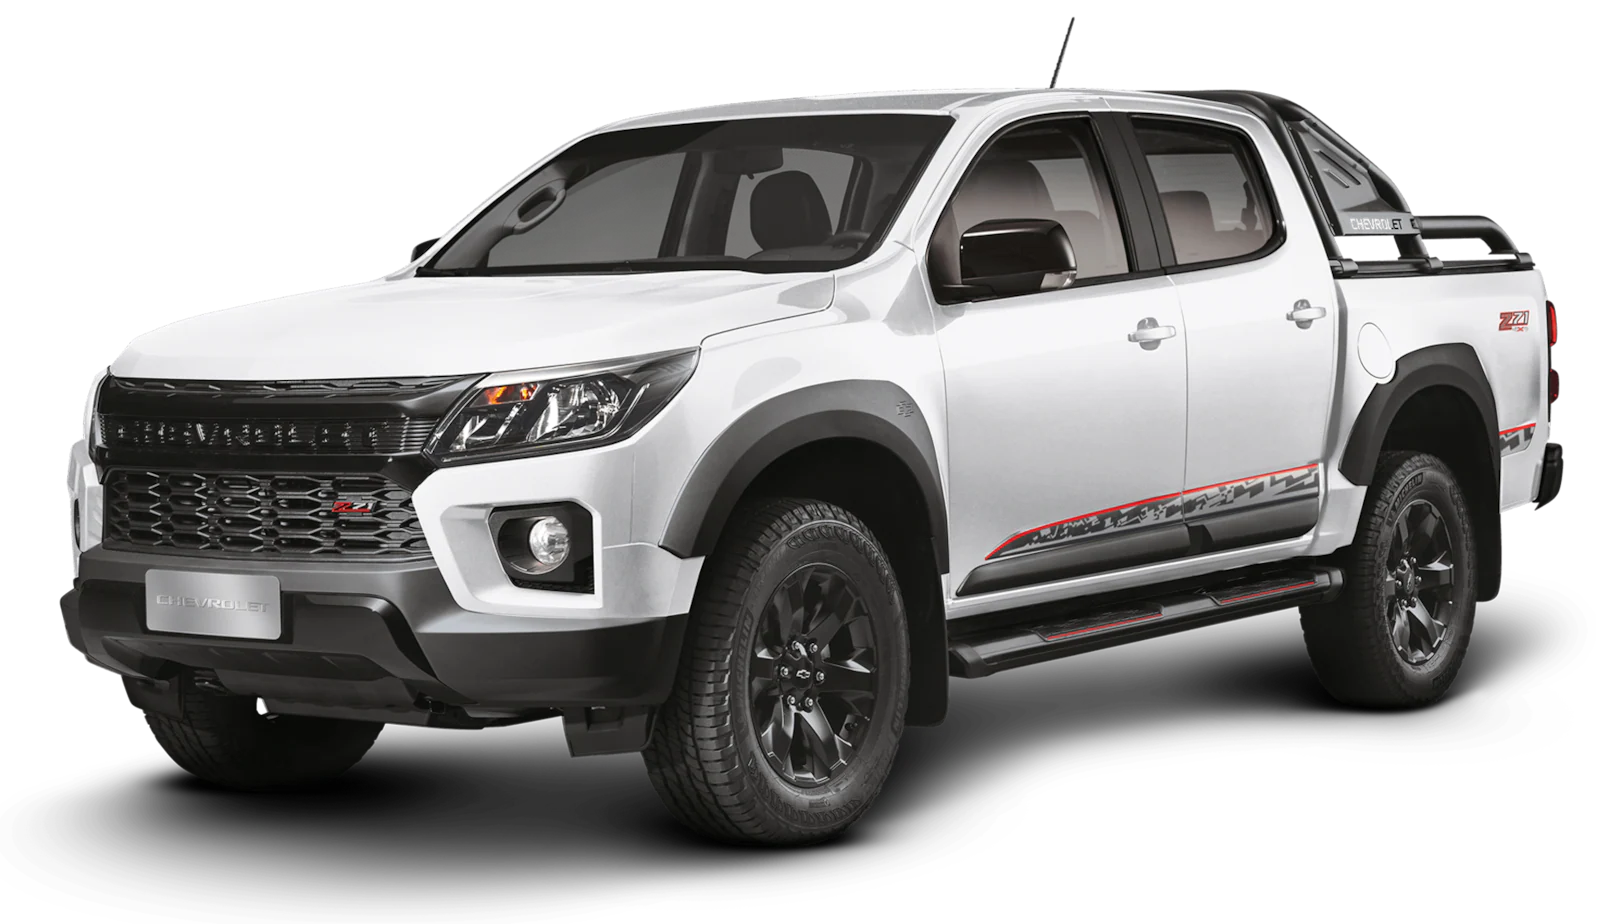
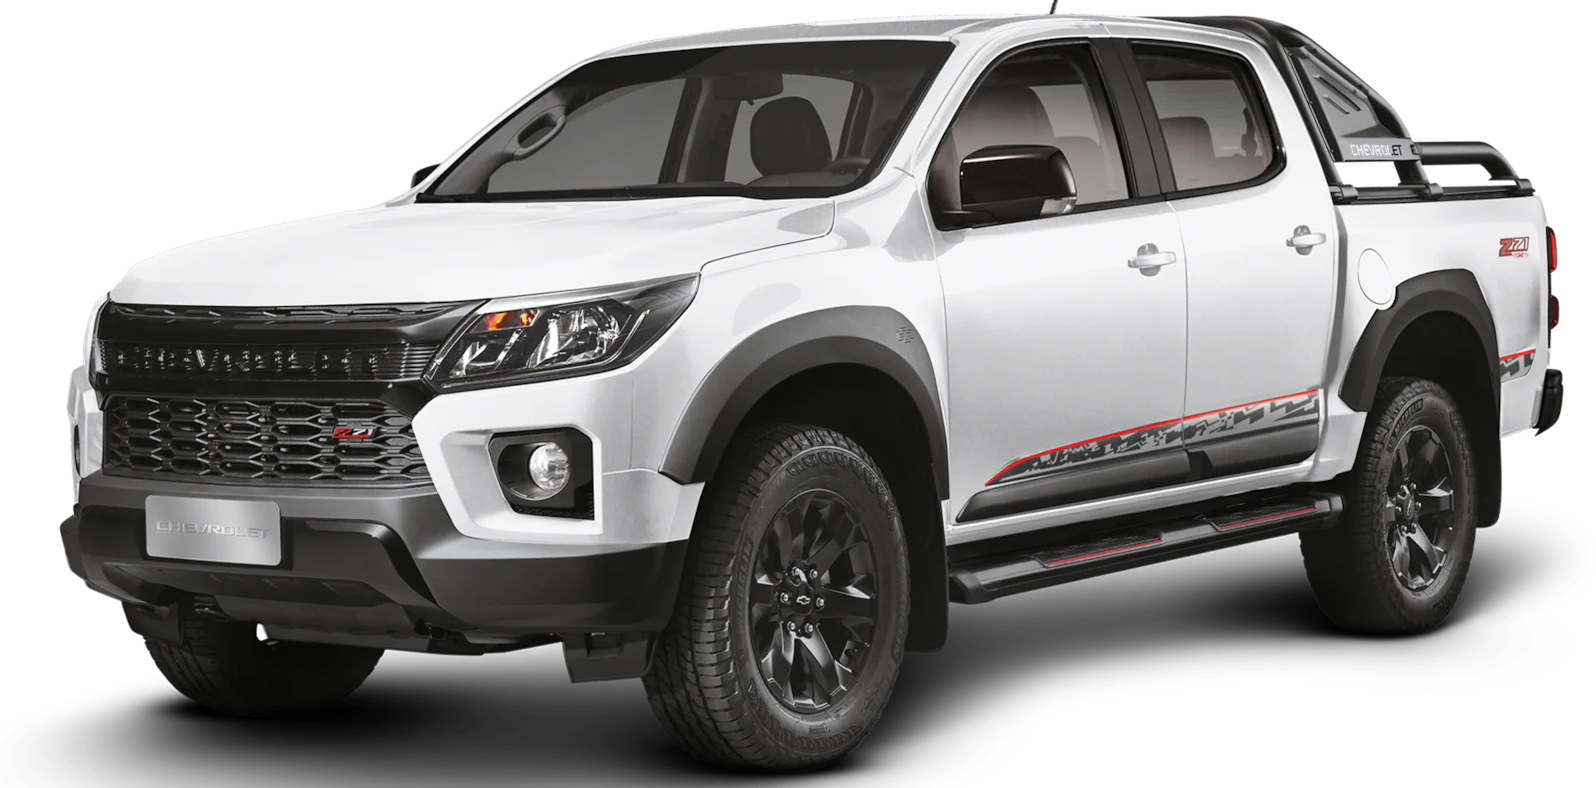
ATT

diff --git a/index.html b/index.html
@@ -122,7 +122,7 @@
                             <p>
                                 <img src="estilo/imagens/main/home-ilustration/casa-moderna.png" alt="casa-moderna" class="imoveis-imagem">
                             </p>
-                                <a href="#" class="botao-ver-parcela">Ver parcela</a>
+                                <a href="#" class="botao-ver-parcela-imoveis">Ver parcela</a>
                         </div>
                     </div>
                     <div class="col-12 col-sm-12 col-md-12 col-lg-3 col-xl-3" id="coluna-casa-media">
@@ -132,7 +132,7 @@
                             <p>
                                 <img src="estilo/imagens/main/home-ilustration/casa-media.png" alt="casa-media" class="imoveis-imagem">
                             </p>
-                                <a href="#" class="botao-ver-parcela">Ver parcela</a>
+                                <a href="#" class="botao-ver-parcela-imoveis">Ver parcela</a>
                         </div>
                     </div>
                     <div class="col-12 col-sm-12 col-md-12 col-lg-3 col-xl-3" id="coluna-casa-pequena">
@@ -142,64 +142,53 @@
                             <p>
                                 <img src="estilo/imagens/main/home-ilustration/casa-pequena.png" alt="casa-pequena" class="imoveis-imagem">
                             </p>
-                                <a href="#" class="botao-ver-parcela">Ver parcela</a>
+                                <a href="#" class="botao-ver-parcela-imoveis">Ver parcela</a>
                         </div>
                     </div>
                 <div class="col-0 col-sm-0 col-md-0 col-lg col-xl"></div>
             </div>
-            <div class="row no-gutters" style="text-align: center;">
-                <div id="row-carro-main" style="text-align: center;">
+
+
+            <div class="row no-gutters" style="text-align: center; margin-top: 20px;">
+                <div class="col-12" id="row-carro-main">
                     <p><img src="estilo/imagens/icones/carro.png" alt="carro"></p>
                     <h2>Carros</h2>
                 </div>
             </div>
-
-            
-
-
-
-
             <div class="row no-gutters">
                 <div class="col-0 col-sm-0 col-md-0 col-lg col-xl"></div>
                     <div class="col-12 col-sm-12 col-md-12 col-lg-3 col-xl-3" id="coluna-carro-hilux">
                         <div id="carro-hilux">
                             <p class="escrita-credito-carro">Valor do crédito:</p>
-                            <p class="valor-credito-carro">R$500.000,00</p>
-                            <p>
-                                <img src="estilo/imagens/main/carro/s10-z71-branco-34frente.png" alt="carro-imagem" class="carro-imagem">
+                            <p class="valor-credito-carro">R$120.000,00</p>
+                            <p class="tamanho-campo-carro">
+                                <img src="estilo/imagens/main/carro/s10-z71-branco-34frente.png" alt="carro-imagem" class="carro-imagem-hilux">
                             </p>
-                                <a href="#" class="botao-ver-parcela">Ver parcela</a>
+                                <a href="#" class="botao-ver-parcela-carro">Ver parcela</a>
                         </div>
                     </div>
                     <div class="col-12 col-sm-12 col-md-12 col-lg-3 col-xl-3" id="coluna-carro-corolla">
-                        <div id="coluna-corolla">
+                        <div id="carro-corolla">
                             <p class="escrita-credito-carro">Valor do crédito:</p>
-                            <p class="valor-credito-carro">R$300.000,00</p>
-                            <p>
-                                <img src="estilo/imagens/main/carro/corolla.png" alt="carro-corolla" class="carro-imagem">
+                            <p class="valor-credito-carro">R$80.000,00</p>
+                            <p class="tamanho-campo-carro">
+                                <img src="estilo/imagens/main/carro/corolla.png" alt="carro-corolla" class="carro-imagem-corolla">
                             </p>
-                                <a href="#" class="botao-ver-parcela">Ver parcela</a>
+                                <a href="#" class="botao-ver-parcela-carro">Ver parcela</a>
                         </div>
                     </div>
                     <div class="col-12 col-sm-12 col-md-12 col-lg-3 col-xl-3" id="coluna-carro-onix">
                         <div id="carro-onix">
                             <p class="escrita-credito-carro">Valor do crédito:</p>
-                            <p class="valor-credito-carro">R$150.000,00</p>
-                            <p>
-                                <img src="estilo/imagens/main/carro/onix.png" alt="carro-onix" class="carro-onix">
+                            <p class="valor-credito-carro">R$50.000,00</p>
+                            <p class="tamanho-campo-carro">
+                                <img src="estilo/imagens/main/carro/onix.png" alt="carro-onix" class="carro-imagem-onix">
                             </p>
-                                <a href="#" class="botao-ver-parcela">Ver parcela</a>
+                                <a href="#" class="botao-ver-parcela-carro">Ver parcela</a>
                         </div>
                     </div>
                 <div class="col-0 col-sm-0 col-md-0 col-lg col-xl"></div>
             </div>
-
-
-
-
-
-
-
         </section>
     </main>
     <script>

diff --git a/estilo/style.css b/estilo/style.css
@@ -224,7 +224,19 @@
         height: 370px !important;
     }
 
-    .carro-imagem {
+    .carro-imagem-corolla {
+        width: 150px !important;
+        height: 160px !important; 
+        margin-bottom: 15px !important;
+    }
+
+    .carro-imagem-onix {
+        width: 150px !important;
+        height: 160px !important; 
+        margin-bottom: 15px !important;
+    }
+
+    .carro-imagem-hilux {
         width: 150px !important;
         height: 160px !important; 
         margin-bottom: 15px !important;
@@ -273,10 +285,17 @@
         margin: 15px !important;
     }
 
-    .carro-imagem {
-        margin-bottom: 25px !important;
+    .carro-imagem-hilux {
         margin-top: 15px !important;
         width: 280px !important;
+    }
+
+    .carro-imagem-corolla {
+        margin-top: 15px !important;
+    }
+
+    .carro-imagem-onix {
+        margin-top: 15px !important;
     }
 }
 
@@ -319,10 +338,27 @@
         width: 370px !important;
         height: 540px !important;
     }
+    
+    .tamanho-campo-carro {
+        height: 335px !important;
+    }
 
-    .carro-imagem {
-        width: 350px !important;
-        height: 300px !important;
+    .carro-imagem-corolla {
+        width: 330px !important;
+        height: 190px !important;
+        margin-top: 60px !important;
+    }
+
+    .carro-imagem-onix {
+        width: 330px !important;
+        height: 190px !important;
+        margin-top: 60px !important;
+    }
+
+    .carro-imagem-hilux {
+        width: 330px !important;
+        height: 190px !important;
+        margin-top: 60px !important;
     }
 
     .escrita-credito-carro {
@@ -528,7 +564,7 @@ header {
     font-size: 1.7em;
 }
 
-.botao-ver-parcela {
+.botao-ver-parcela-imoveis {
     margin: auto;
     margin-bottom: 15px;
     padding: 10px;
@@ -542,7 +578,7 @@ header {
     font-size: 1.5em;
 }
 
-.botao-ver-parcela:hover {
+.botao-ver-parcela-imoveis:hover {
     background-color: #FFAD13;
     cursor: pointer;
     transition: 0.5s;
@@ -550,12 +586,16 @@ header {
     text-decoration: none;
 }
 
+#row-carro {
+    text-align: center;
+}
+
 #row-carro-main {
     margin-top: 40px;
 }
 
 #row-carro-main > h2 {
-    color: #FFAD13;
+    color: #299bff;
     font-weight: bolder;
     font-size: 2.5em;
 }
@@ -563,6 +603,8 @@ header {
 #row-carro-main > p > img {
     margin-top: 10px;
     width: 100px;
+    margin: auto;
+    text-align: center;
 }
 
 #coluna-carro-hilux {
@@ -574,12 +616,9 @@ header {
     width: 330px;
     height: 490px;
     margin: auto;   
-    border: 3px solid #FFAD13;
+    border: 3px solid #299bff;
     border-radius: 25px;
 }
-
-
-
 
 #carro-hilux > p > img {
     width: 300px;
@@ -631,3 +670,26 @@ header {
     font-weight: bold;
     font-size: 1.7em;
 }
+
+.botao-ver-parcela-carro {
+    margin: auto;
+    margin-bottom: 15px;
+    padding: 10px;
+    border: 2px solid #FFAD13;
+    border-radius: 40px;
+    width: 200px;
+    height: 50px;
+    text-decoration: none;
+    color: black;
+    font-weight: 600;
+    font-size: 1.5em;
+}
+
+.botao-ver-parcela-carro:hover {
+    background-color: #FFAD13;
+    cursor: pointer;
+    transition: 0.5s;
+    color: white;
+    text-decoration: none;
+}
+
